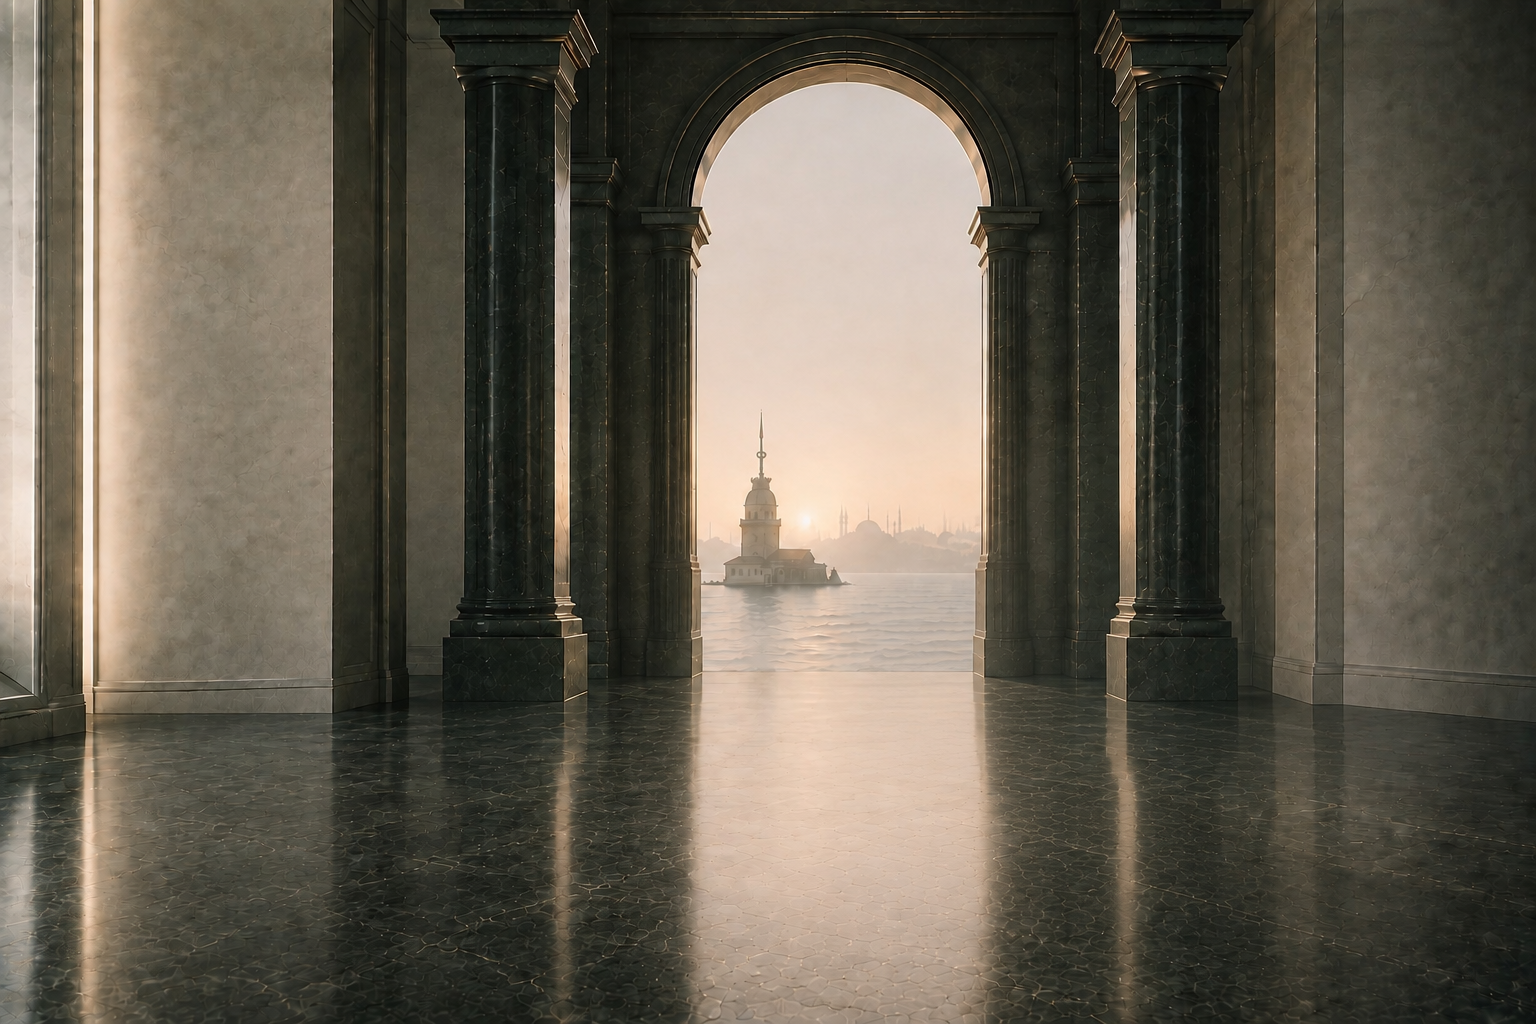
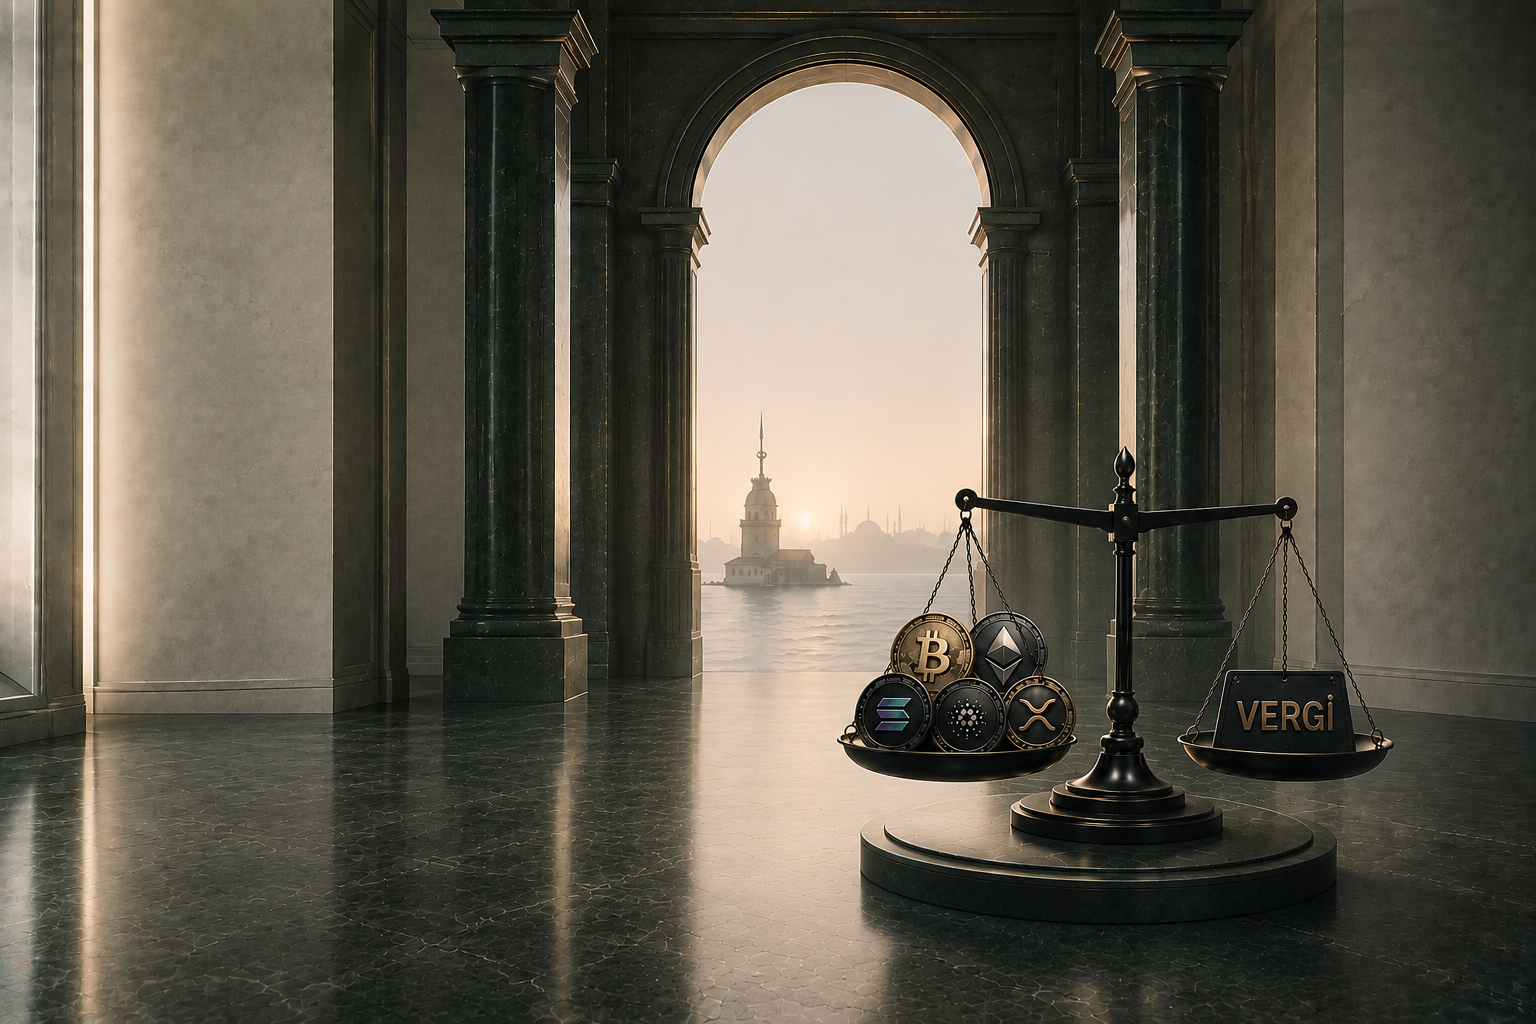
Hero: terazisiz yeni fotoğraf geri alındı, eski sallanan kol animasyonuna dönüldü
Yeni fotoğrafın arka planı (sütun stili, ışık, kompozisyon) kesilmiş kol+kefe
katmanıyla (hero-scale-beam.png, eski fotoğraftan kesilmişti) uyuşmuyordu —
üst üste bindirilince belirgin bir "yapıştırma" gibi duruyordu. Eski
terazili fotoğraf + eski animasyona dönüldü; kefe hayalet sorunu (asıl amaç)
yeni fotoğrafla eşleşen bir kol kesimi hazırlanana kadar çözülemiyor.

diff --git a/components/hero-scale.tsx b/components/hero-scale.tsx
@@ -1,40 +1,115 @@
 "use client";
 
 import Image from "next/image";
-import { motion, useReducedMotion } from "framer-motion";
-import { useEffect } from "react";
+import { motion, useReducedMotion, type Transition } from "framer-motion";
+import { useEffect, useState } from "react";
 import { useScaleAnimation } from "./scale-animation-context";
 
-// NOT: Onceki hero-base.png fotografinda bir terazi vardi ve ustune
-// hero-scale-beam.png (kesilmis kol+kefe katmani) fizik tabanli bir sallanma
-// animasyonuyla bindiriliyordu. Fotograf terazisiz yeni versiyonla (bkz.
-// /var/www/kriptobeyan/hero2.png) degistirildi — kol katmani ve sallanma
-// animasyonu artik gorsele karsilik gelmedigi icin bilerek kaldirildi,
-// sadece sade bir giris (fade+scale) animasyonu kaldi.
+// Crop box of the beam+chains+pans layer within the original 1536x1024
+// hero photo (see /var/www/kriptobeyan/frontend/public/hero-base.png and
+// hero-scale-beam.png — the beam layer was cut out with a feathered alpha
+// mask so it recomposites seamlessly over the static base at rest).
+const BEAM_BOX = {
+  leftPct: (800 / 1536) * 100,
+  topPct: (360 / 1024) * 100,
+  widthPct: (660 / 1536) * 100,
+  heightPct: (660 / 1024) * 100,
+};
+
+// Pivot = top of the scale's post (the fulcrum the beam swings on),
+// expressed as a percentage within the beam layer's own box.
+const PIVOT_ORIGIN = "45.3% 20.2%";
+
+type Stage = "intro" | "loop";
+
 export function HeroScale() {
   const { setSettled } = useScaleAnimation();
   const prefersReducedMotion = useReducedMotion();
+  const [stage, setStage] = useState<Stage>("intro");
+  const [isCompact, setIsCompact] = useState(() =>
+    typeof window !== "undefined"
+      ? window.matchMedia("(max-width: 1023px)").matches
+      : false,
+  );
 
   useEffect(() => {
     setSettled(false);
   }, [setSettled]);
 
+  useEffect(() => {
+    const mq = window.matchMedia("(max-width: 1023px)");
+    const onChange = (e: MediaQueryListEvent) => setIsCompact(e.matches);
+    mq.addEventListener("change", onChange);
+    return () => mq.removeEventListener("change", onChange);
+  }, []);
+
+  const introTilt = isCompact ? -5 : -9;
+  const loopTilt = isCompact ? -4.5 : -6.5;
+
+  // Reduced motion: settle once, no continuous loop afterwards.
+  const rotateTarget = prefersReducedMotion
+    ? 0
+    : stage === "intro"
+      ? 0
+      : [0, loopTilt, 0];
+
+  const transition: Transition = prefersReducedMotion
+    ? { duration: 0.01 }
+    : stage === "intro"
+      ? isCompact
+        ? { type: "spring", stiffness: 34, damping: 6.5, mass: 1 }
+        : { type: "spring", stiffness: 22, damping: 3.6, mass: 1 }
+      : {
+          duration: 5,
+          times: [0, 0.6, 1],
+          ease: "easeInOut",
+          repeat: Infinity,
+          repeatDelay: 2,
+        };
+
   return (
     <motion.div
       initial={{ opacity: 0, scale: 0.97 }}
       animate={{ opacity: 1, scale: 1 }}
-      transition={{ duration: prefersReducedMotion ? 0.01 : 0.6, ease: [0.22, 1, 0.36, 1] }}
-      onAnimationComplete={() => setSettled(true)}
+      transition={{ duration: 0.5, ease: [0.22, 1, 0.36, 1] }}
       className="relative aspect-[1536/1024] w-full max-w-full select-none lg:h-full lg:w-auto"
     >
       <Image
         src="/hero-base.png"
-        alt="KriptoBeyan — arka planda İstanbul, Kız Kulesi siluetiyle mermer bir galeri. KriptoBeyan, kripto kazancınızla vergi yükümlülüğünüz arasındaki dengeyi kurar."
+        alt="Kripto varlıklarla vergiyi dengeleyen terazi — arka planda İstanbul, Kız Kulesi siluetiyle mermer bir galeri. KriptoBeyan, kripto kazancınızla vergi yükümlülüğünüz arasındaki dengeyi kurar."
         fill
         priority
         sizes="(min-width: 1024px) 90vw, 100vw"
         className="object-cover"
       />
+      <motion.div
+        initial={{ rotate: introTilt }}
+        animate={{ rotate: rotateTarget }}
+        transition={transition}
+        onAnimationComplete={() => {
+          if (stage === "intro") {
+            setSettled(true);
+            setStage("loop");
+          }
+        }}
+        style={{
+          position: "absolute",
+          left: `${BEAM_BOX.leftPct}%`,
+          top: `${BEAM_BOX.topPct}%`,
+          width: `${BEAM_BOX.widthPct}%`,
+          height: `${BEAM_BOX.heightPct}%`,
+          transformOrigin: PIVOT_ORIGIN,
+        }}
+      >
+        <Image
+          src="/hero-scale-beam.png"
+          alt=""
+          fill
+          priority
+          sizes="(min-width: 1024px) 40vw, 44vw"
+          className="object-contain"
+        />
+      </motion.div>
     </motion.div>
   );
 }
